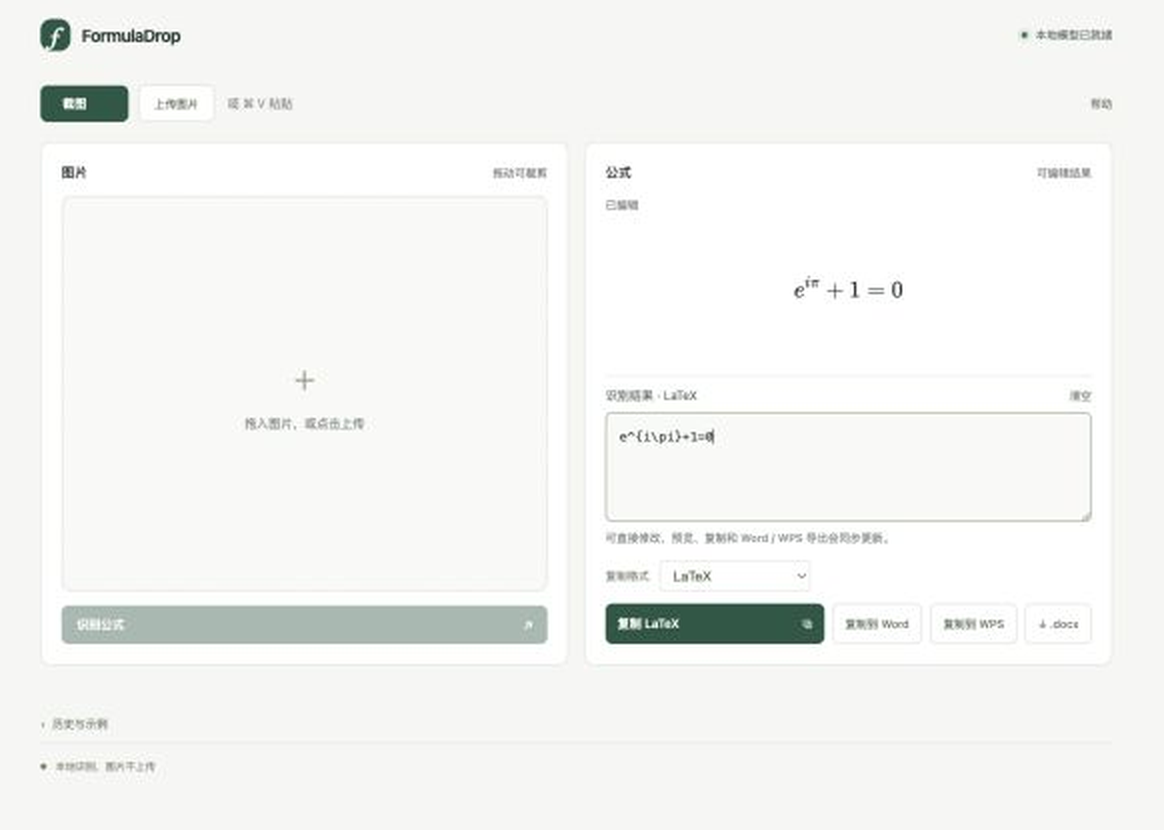
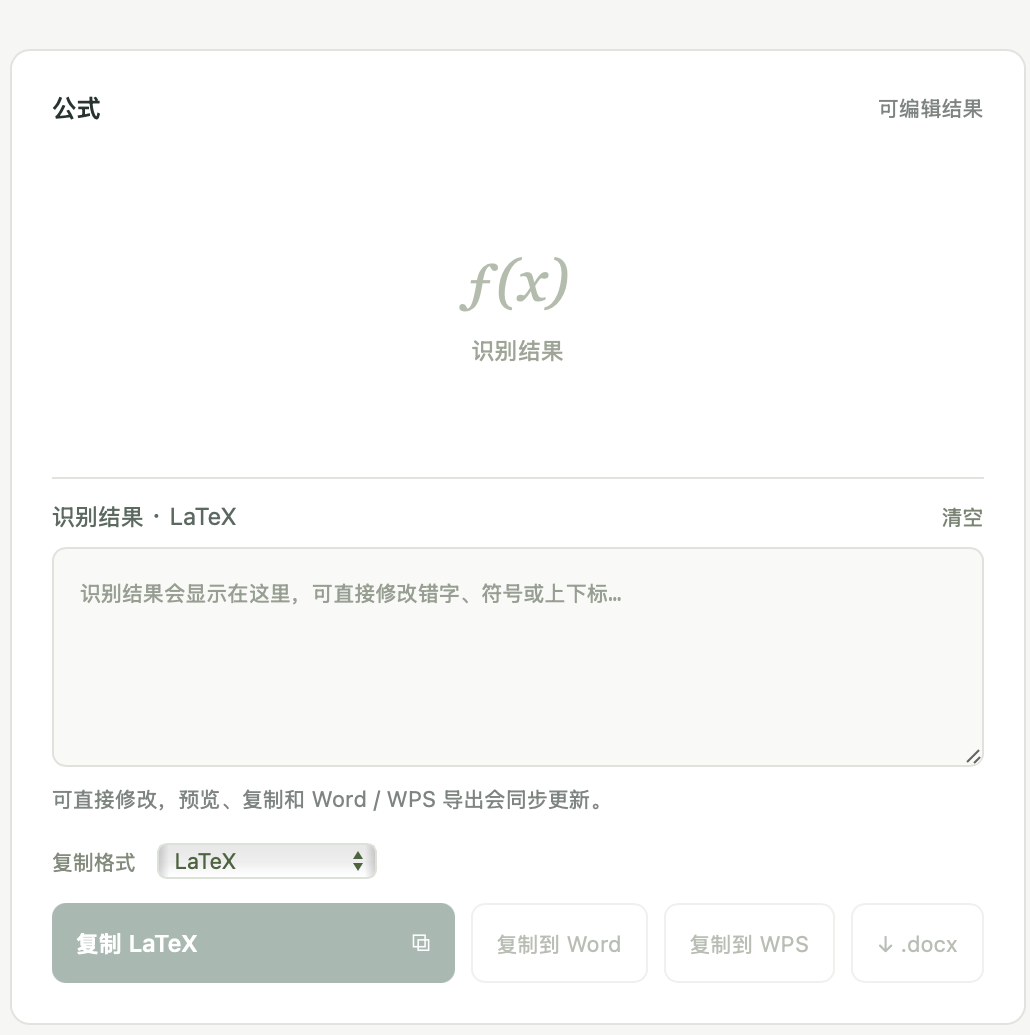
Replace README screenshots with high resolution capture

diff --git a/README.md b/README.md
@@ -15,7 +15,7 @@
 
 ![FormulaDrop 主界面](screenshots/formuladrop-main.png)
 
-![编辑公式并复制到 WPS](screenshots/formuladrop-wps.png)
+![公式编辑与 WPS 导出](screenshots/formuladrop-wps.png)
 
 ## 从源码运行
 
